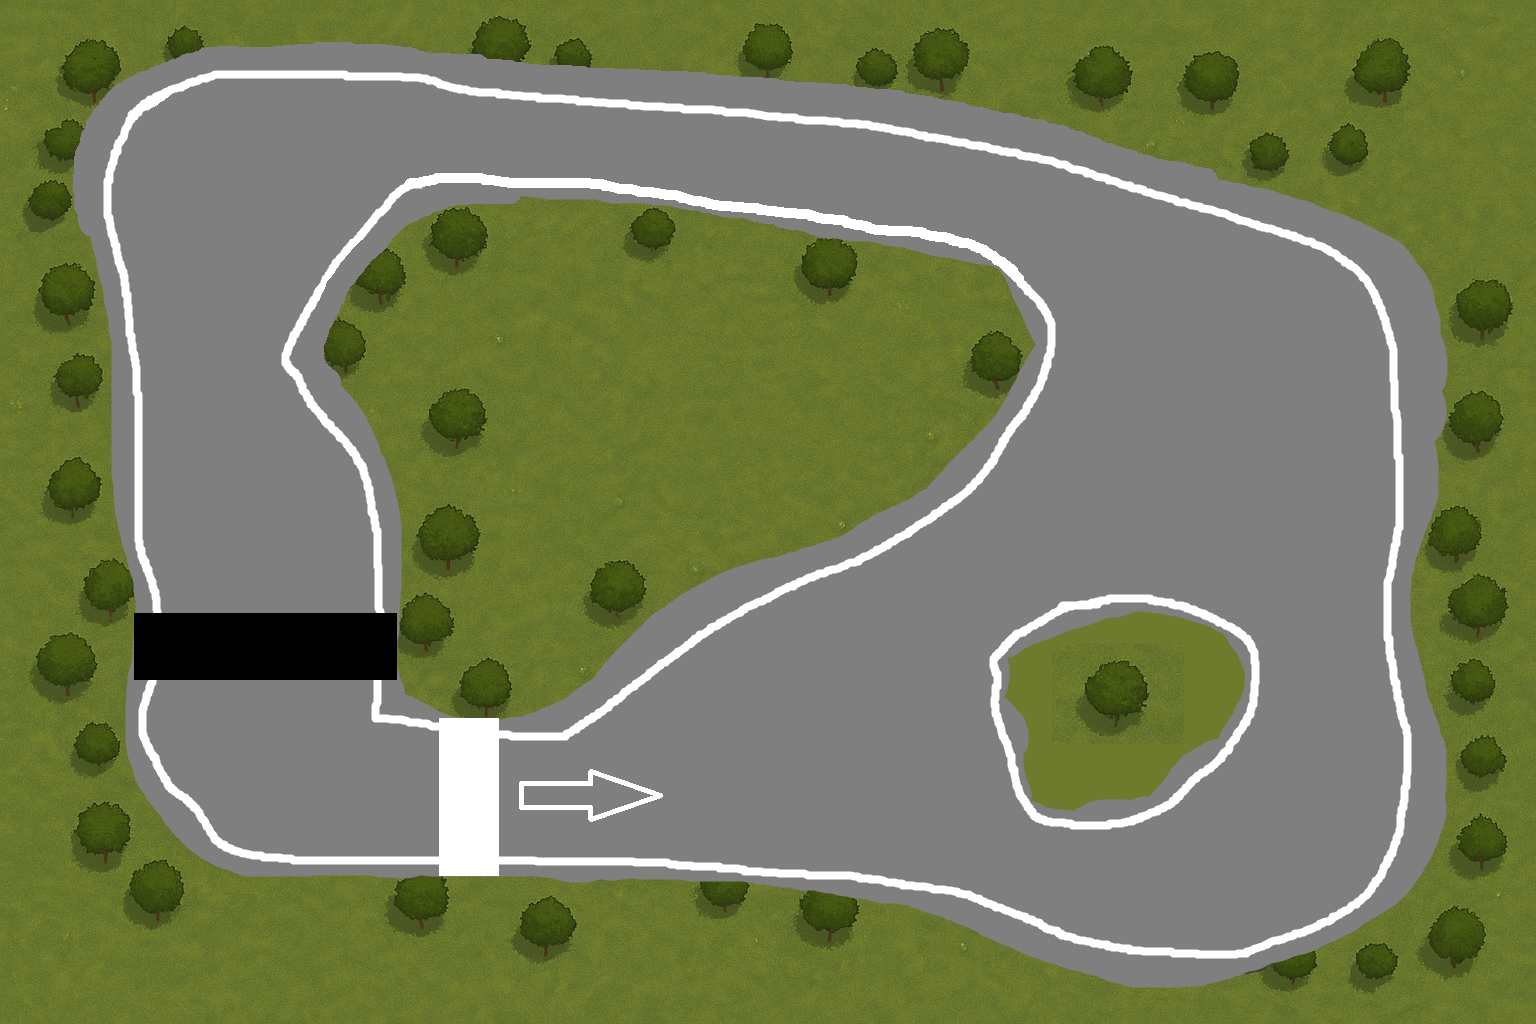
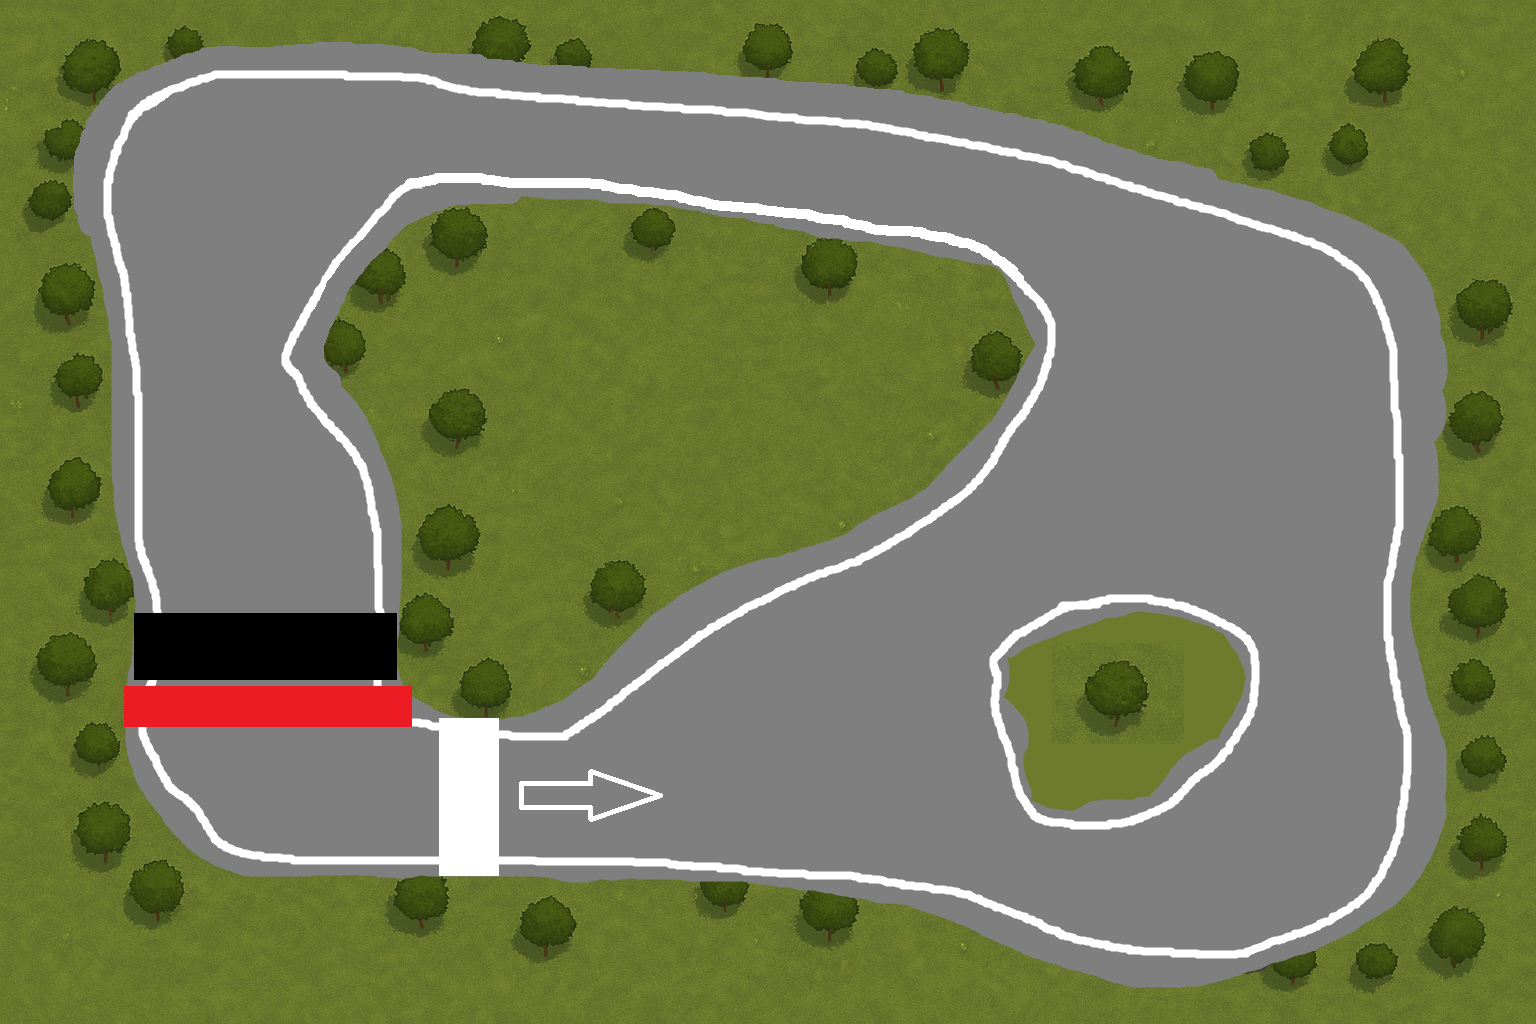
Finalní čára

Changed region(s): [[0.0625, 0.6562, 0.2812, 0.7188]]

diff --git a/Game.py b/Game.py
@@ -190,14 +190,24 @@ def toggle_fullscreen():
 def is_road_color(color, tolerance=15):
     r, g, b, *_ = color
 
-    # Detekce šedé (běžná trať)
+    # Detekce šedé
     is_gray = abs(r - g) < tolerance and abs(g - b) < tolerance and abs(r - 128) < tolerance
 
-    # Povolení černé nebo bílé (startovní čára apod.)
+    # Detekce bílé
     is_white = r > 240 and g > 240 and b > 240
+
+    # Detekce černé
     is_black = r < 20 and g < 20 and b < 20
 
+    # Detekce červené – NEpočítá se jako silnice!
+    is_red = abs(r - 255) < 10 and g < 50 and b < 50
+
+    if is_red:
+        return False  # červená = zastav!
+
     return is_gray or is_white or is_black
+
+    
 
 
 def check_off_road(x, y):
@@ -368,21 +378,34 @@ while running:
 
         # Ovládání auta
         keys = pygame.key.get_pressed()
+        # Navrhovaný nový pohyb
+        new_x, new_y = car_x, car_y
+
         if keys[pygame.K_a]:
-            car_x -= speed
-            car_direction = "left"
+            test_x = car_x - speed
+            if not check_off_road(test_x, car_y):
+                new_x = test_x
+                car_direction = "left"
+
         if keys[pygame.K_d]:
-            car_x += speed
-            car_direction = "right"
+            test_x = car_x + speed
+            if not check_off_road(test_x, car_y):
+                new_x = test_x
+                car_direction = "right"
+
         if keys[pygame.K_w]:
-            car_y -= speed
-            car_direction = "front"
+            test_y = car_y - speed
+            if not check_off_road(car_x, test_y):
+                new_y = test_y
+                car_direction = "front"
+
         if keys[pygame.K_s]:
-            car_y += speed
-            car_direction = "back"
+            test_y = car_y + speed
+            if not check_off_road(car_x, test_y):
+                new_y = test_y
+                car_direction = "back"
 
-        
-
+        car_x, car_y = new_x, new_y
         # Zabránění pohybu mimo obrazovku
         # Získání středu auta
         center_x = car_x + car_width // 2
@@ -394,17 +417,22 @@ while running:
                 lap_started = True
                 lap_ready = True
             elif lap_ready:
-                # Detekce správného směru
                 if car_direction == start_direction:
-                    messagebox.showinfo("Cíl!", "Gratuluji, dojel jsi do cíle správným směrem!")
-                    lap_started = False
-                    lap_ready = False
-                else:
-                    messagebox.showerror("Chyba!", "Projíždíš cílovou čáru špatným směrem! Budeš vrácen na start.")
-                    mapa = maps[vybrana_mapa_index]
-                    car_x = mapa["start_x"]
-                    car_y = mapa["start_y"]
-                    car_direction = mapa.get("start_dir", "front")
+                    # Dialog s volbou pomocí tkinter
+                    pygame.event.set_blocked(None)  # Zablokuj zpracování událostí
+                    pygame.event.pump()             # Vynuť zpracování fronty
+                    result = messagebox.askquestion("Cíl!", "Dorazil jste do cíle!\nChcete si dát ještě jedno kolo nebo chcete zpátky do menu?")
+                    pygame.event.set_allowed(None)  # Povol zpět všechny události
+                    root.withdraw()   # opět skryjeme tkinter okno
+
+                    if result == 'yes':  # Uživatel klikl na "Ano" (Znovu)
+                        mapa = maps[vybrana_mapa_index]
+                        car_x = mapa["start_x"]
+                        car_y = mapa["start_y"]
+                        car_direction = mapa.get("start_dir", "front")
+                    else:  # Uživatel klikl na "Ne" (Zpět do menu)
+                        in_menu = True
+
                     lap_started = False
                     lap_ready = False
         else:
